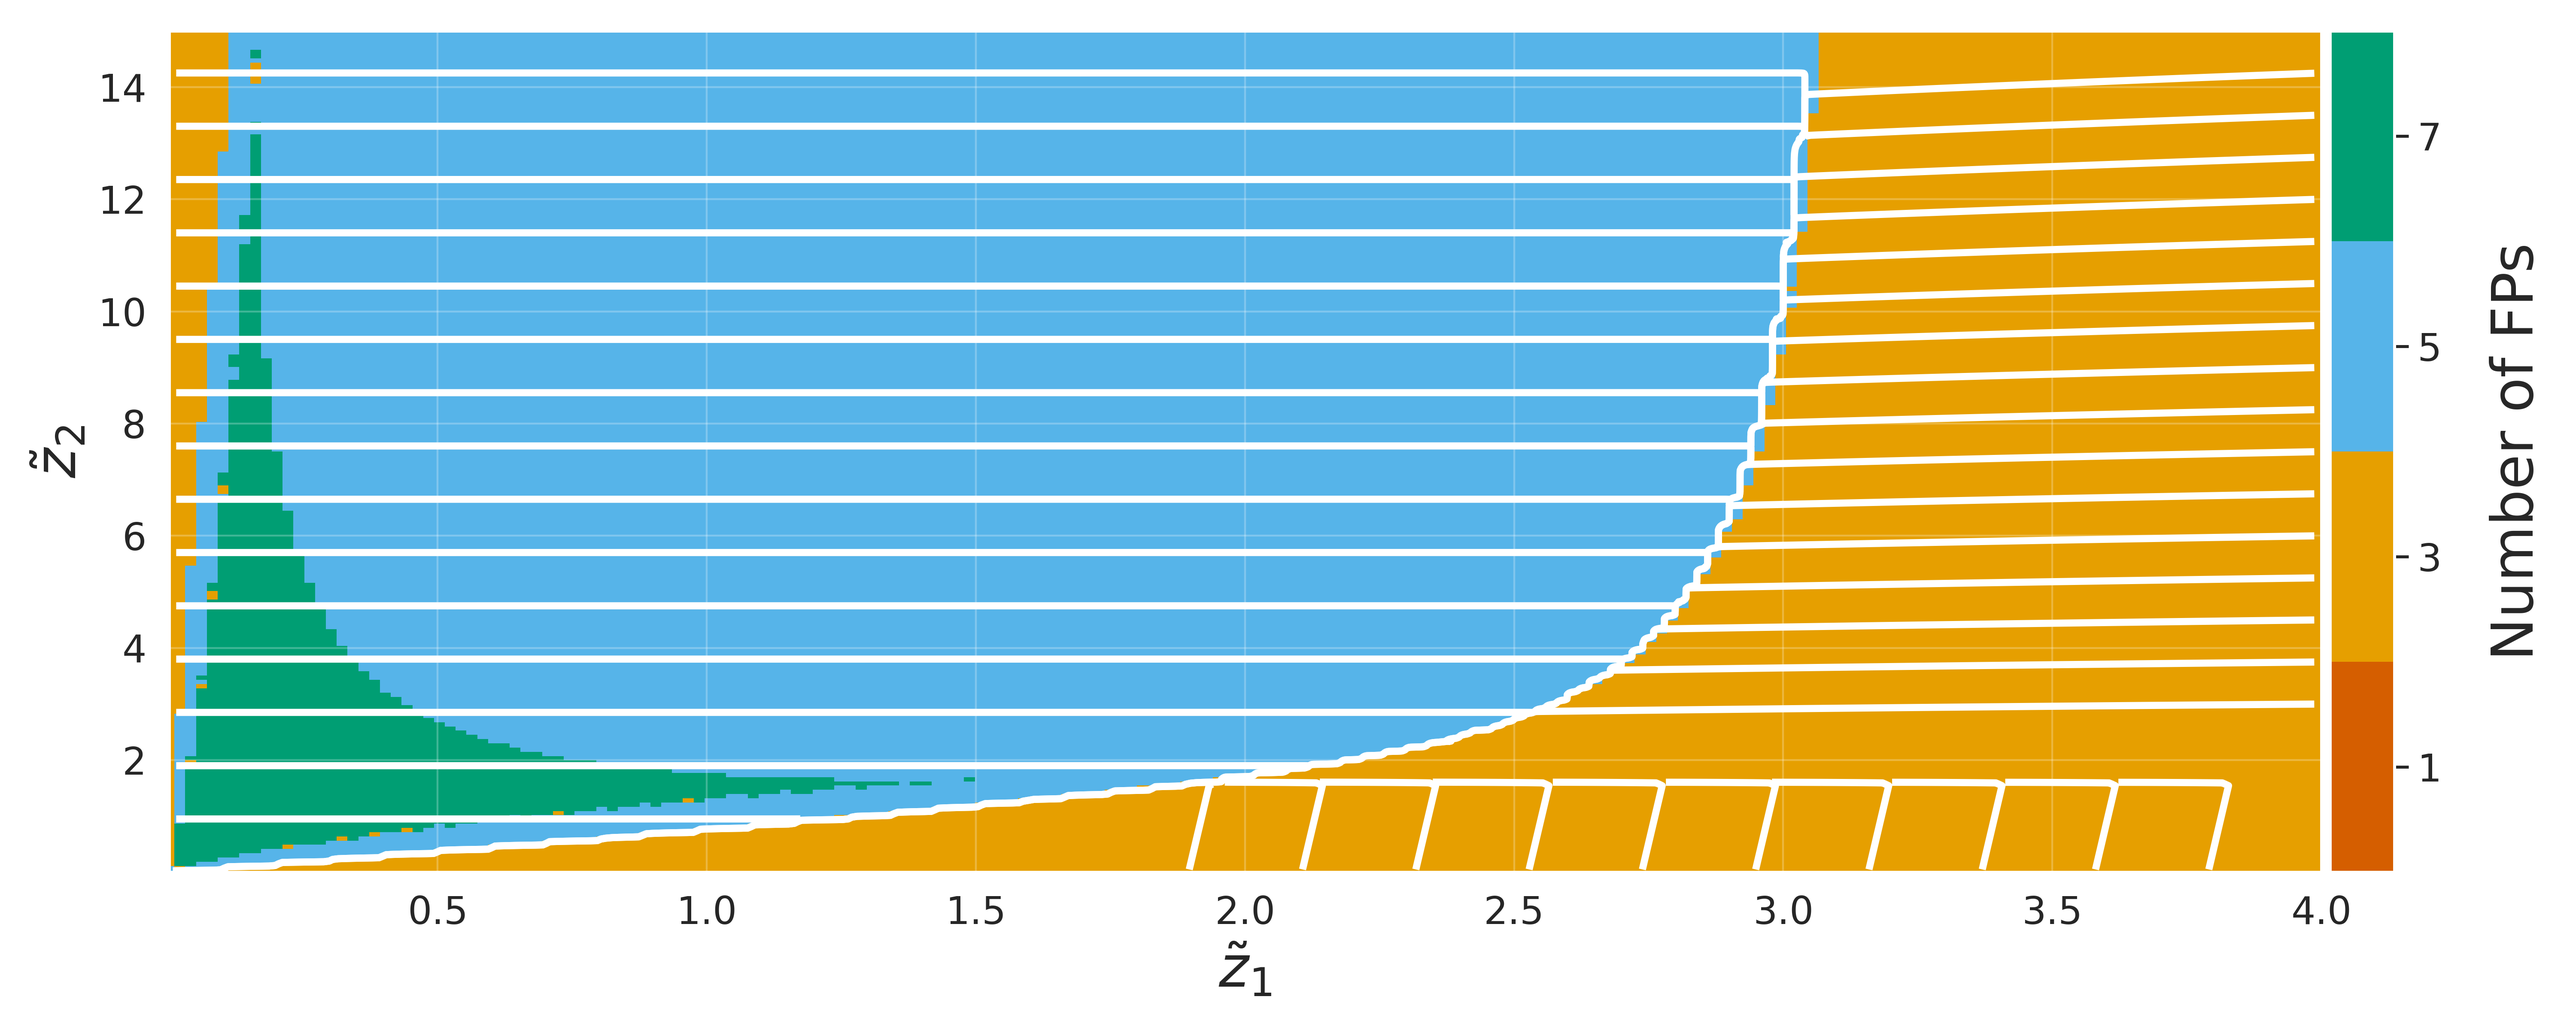
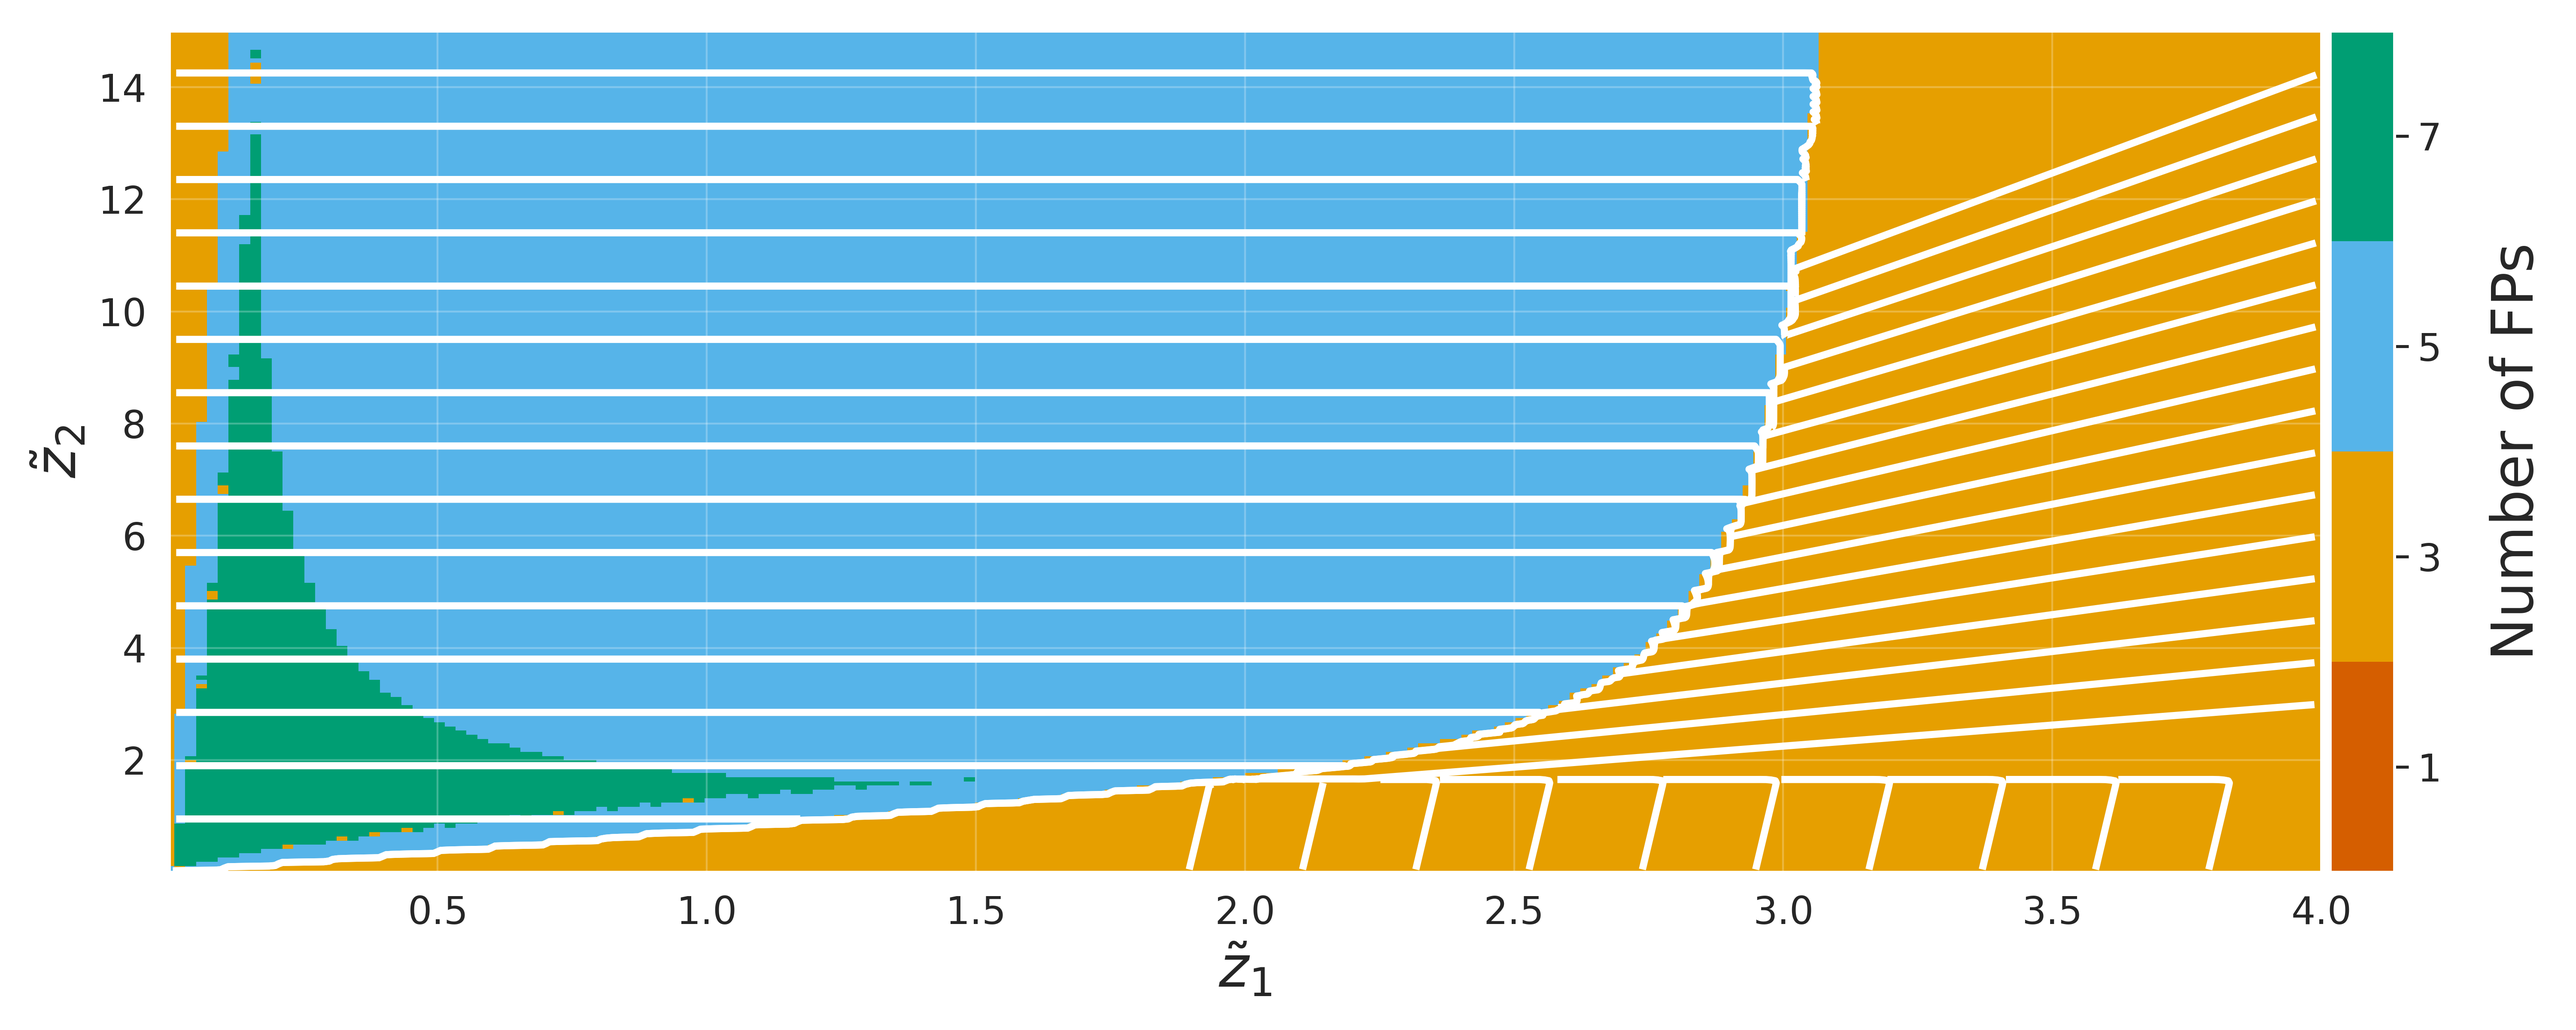
testing the new w_mu version and making figures

Changed region(s): [[0.4675, 0.0625, 0.9038, 0.7812]]

diff --git a/FigureCode/Fig4_wmu/A_calc_catastrophe.py b/FigureCode/Fig4_wmu/A_calc_catastrophe.py
@@ -58,7 +58,7 @@ def calculate_nullclines_overlaps(grads):
 
 @jax.jit
 def calculate_N_fps(Ms_probes, z_mu, gamma, XIs, beta, w_mu):
-    gamma_eff = gamma + z_mu*w_mu
+    gamma_eff = gamma + z_mu
 
     grads = get_grads_field(Ms_probes, gamma_eff, XIs, beta, w_mu)[:, 0].reshape(size, size, -1)
     DT_diff = calculate_nullclines_overlaps(grads)
@@ -75,7 +75,6 @@ def calculate_N_fps(Ms_probes, z_mu, gamma, XIs, beta, w_mu):
 
 
 calculate_catastrophe = jax.vmap(calculate_N_fps, in_axes=(None, 0, None, None, None, None))
-
 def calculate_catastrophe_shard(Ms_probes, z_mus, gamma, XIs, beta, w_mu):
     N_fps_gamma_space = jax.jit(calculate_catastrophe, in_shardings=(None, in_shard, None, None, None, None), out_shardings=out_shard)(Ms_probes, z_mus, gamma, XIs, beta, w_mu)
     return N_fps_gamma_space

diff --git a/FigureCode/Fig4_wmu/A_catastrophe_plot_growth.py b/FigureCode/Fig4_wmu/A_catastrophe_plot_growth.py
@@ -22,7 +22,7 @@ import matplotlib.colors
 
 def calculate_growth_grad(z_base, growth_point, XIs, beta, w_mu):
     N_cells = 100.0
-    gamma_base = jnp.asarray([N_cells*z_base[0], N_cells*z_base[1], N_cells]) * w_mu
+    gamma_base = jnp.asarray([N_cells*z_base[0], N_cells*z_base[1], N_cells])
     
     tmax = 4000
     lr = 0.01
